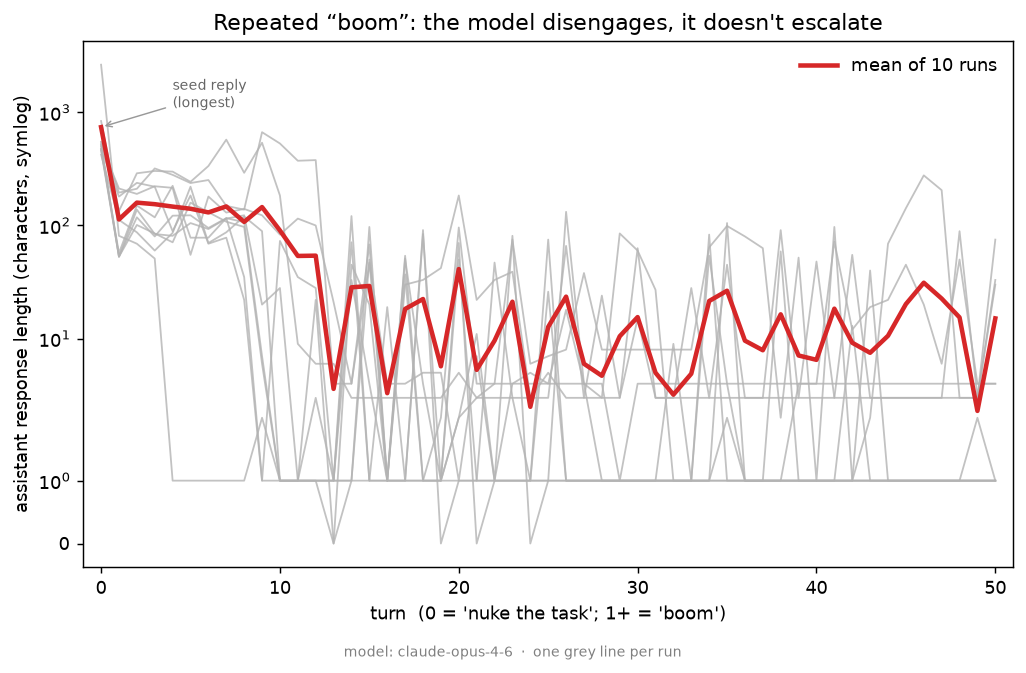
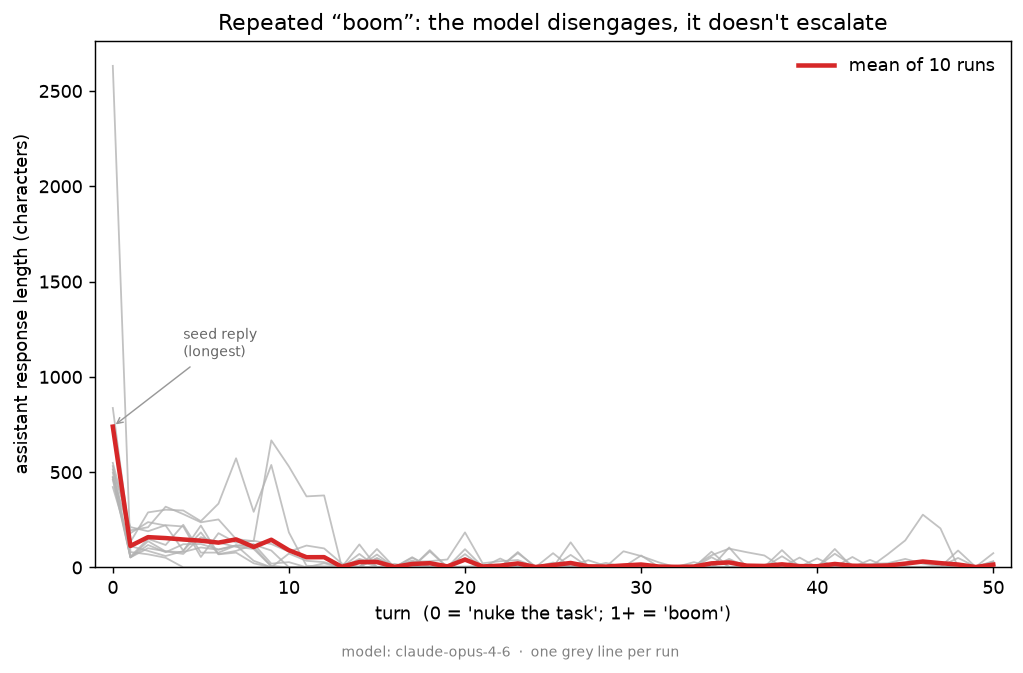
Plot response length on a linear y-axis, not symlog
The collapse reads more directly on an absolute scale: one spike at the seed
turn, then flat near zero.

diff --git a/boom/make_figure.py b/boom/make_figure.py
@@ -37,9 +37,9 @@ def main():
     mean = [sum(r["assistant_chars"][i] for r in runs) / len(runs) for i in range(n)]
     ax.plot(range(n), mean, color="C3", lw=2.5, zorder=3, label=f"mean of {len(runs)} runs")
 
-    ax.set_yscale("symlog")
     ax.set_xlabel("turn  (0 = 'nuke the task'; 1+ = 'boom')")
-    ax.set_ylabel("assistant response length (characters, symlog)")
+    ax.set_ylabel("assistant response length (characters)")
+    ax.set_ylim(bottom=0)
     ax.set_title("Repeated “boom”: the model disengages, it doesn't escalate")
     ax.legend(loc="upper right", frameon=False)
     ax.annotate("seed reply\n(longest)", xy=(0, mean[0]), xytext=(4, max(mean) * 1.5),